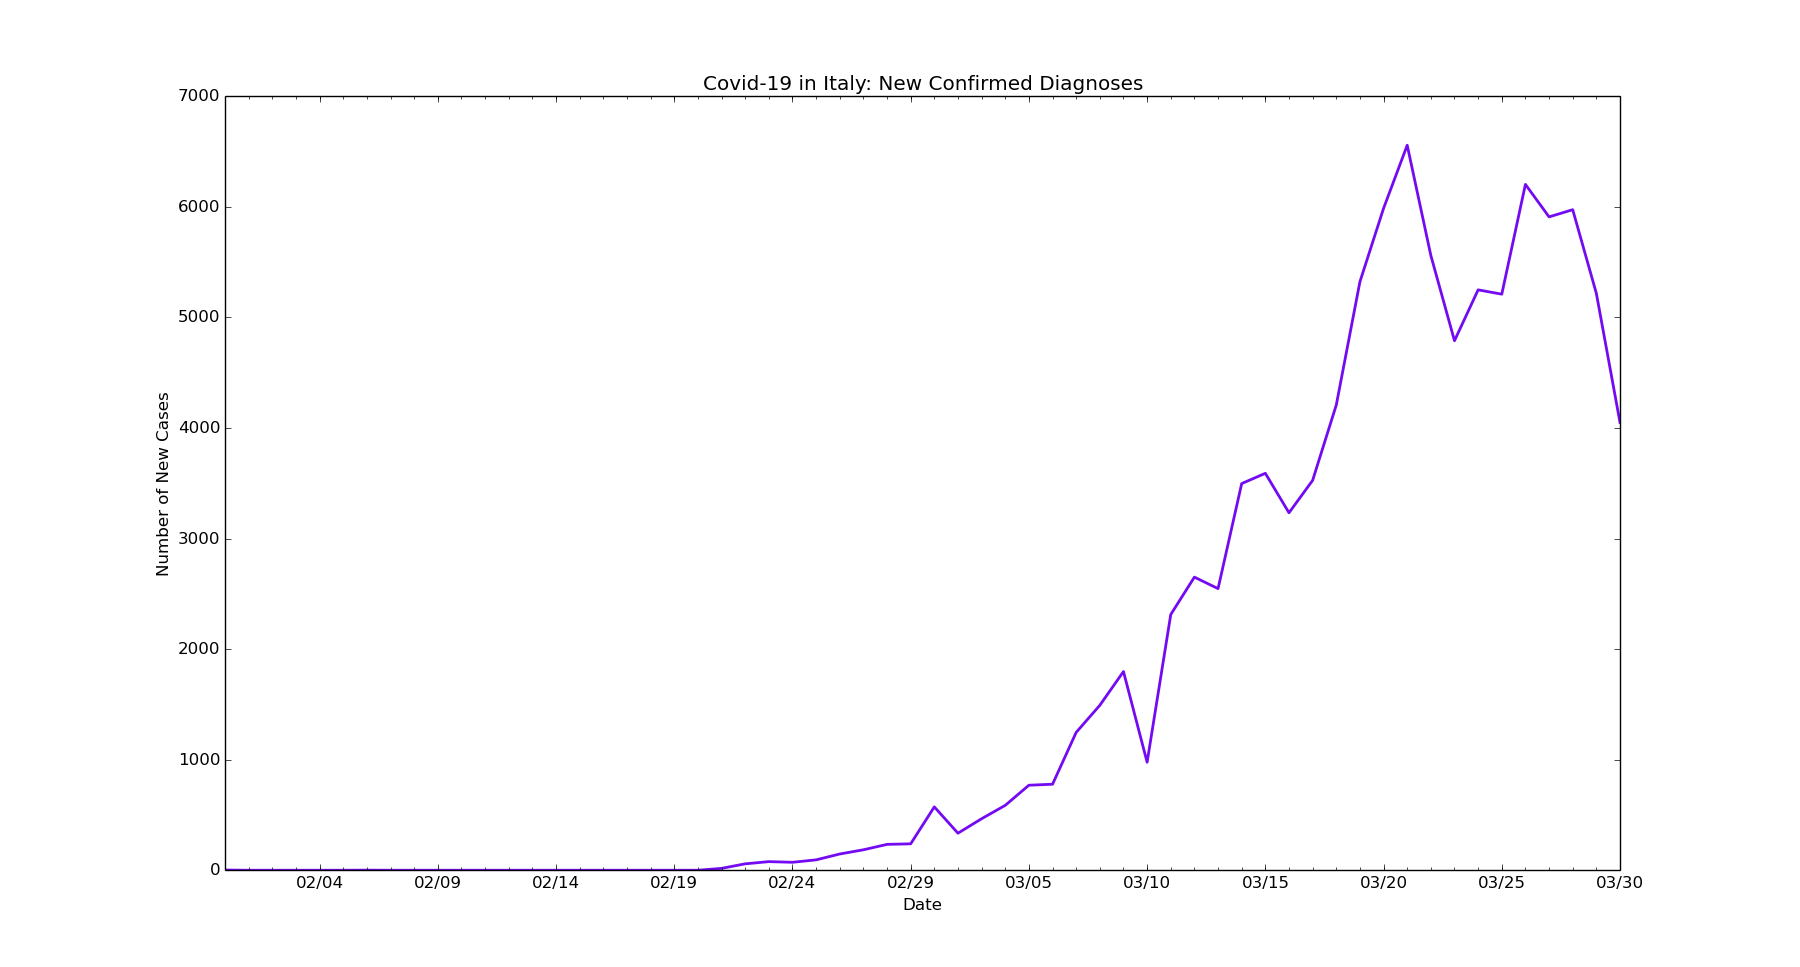
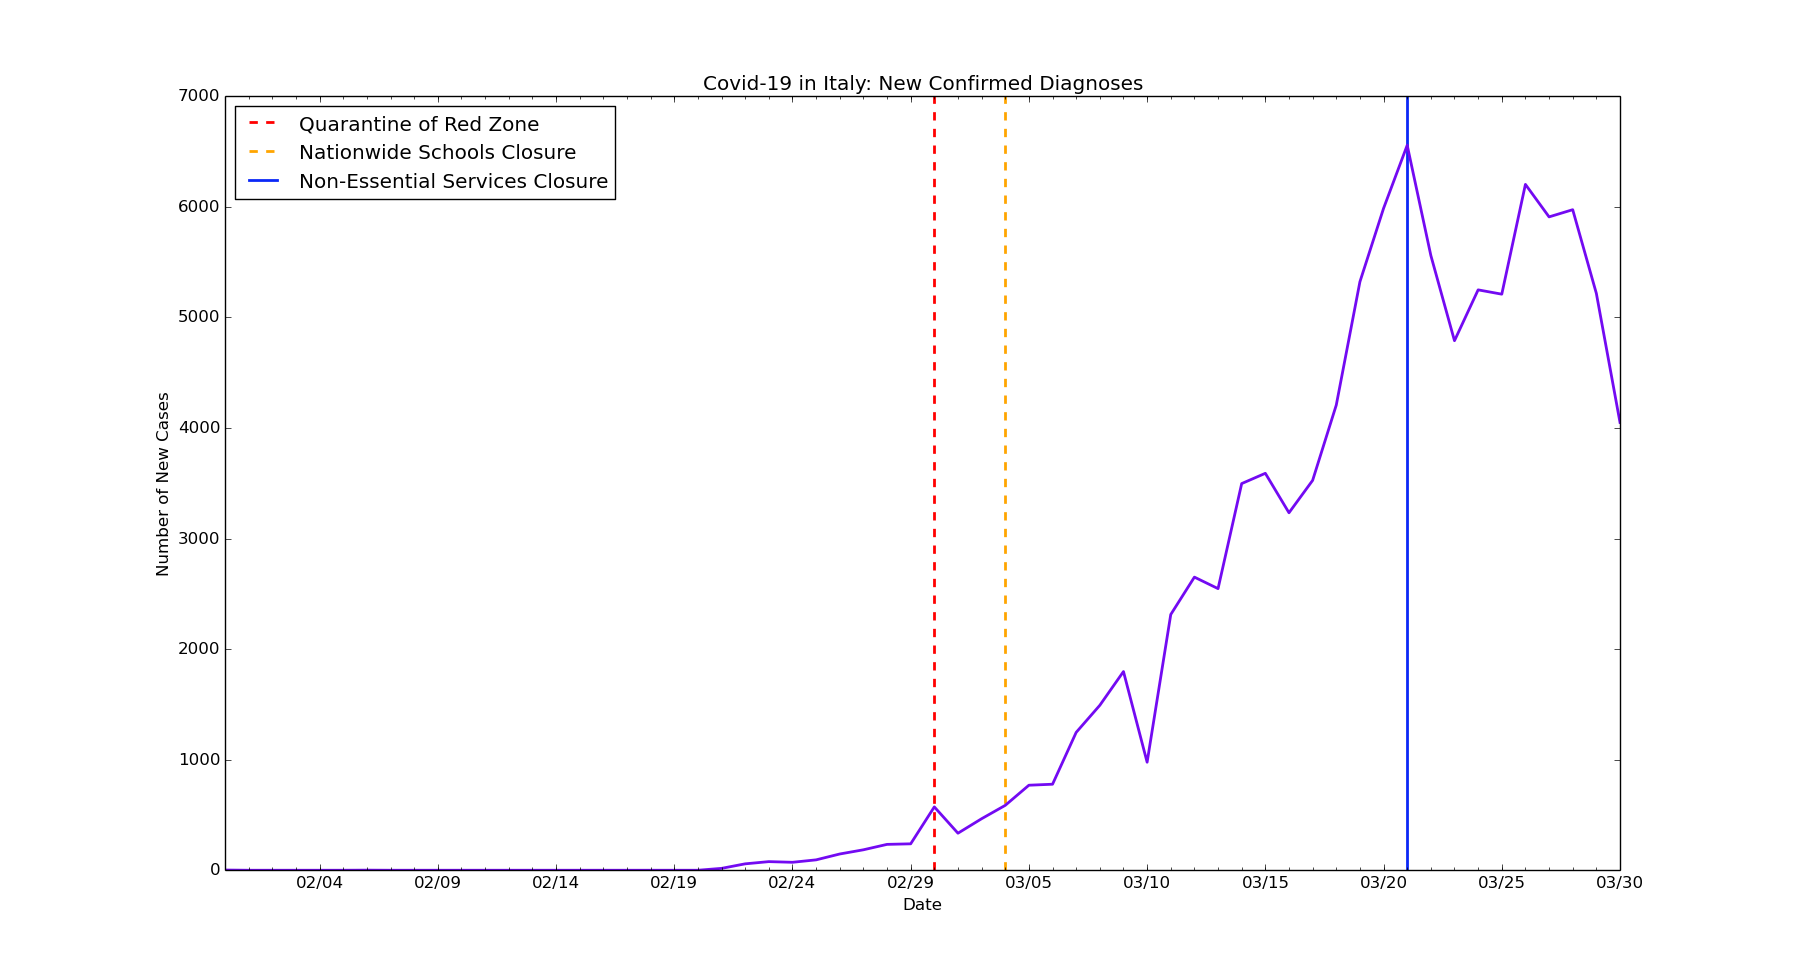
feat: Add containment measures for Italy

Changed region(s): [[0.1244, 0.0931, 0.3422, 0.2172], [0.3111, 0.0931, 0.3422, 0.1241]]

diff --git a/italy/it-nc.py b/italy/it-nc.py
@@ -1,6 +1,6 @@
 # line graph of daily new cases in Italy
 
-import datetime
+import datetime as dt
 import matplotlib.pyplot as plt
 import matplotlib.dates as mdates
 from matplotlib.dates import MO, TU, WE, TH, FR, SA, SU
@@ -8,7 +8,7 @@ from matplotlib.dates import MO, TU, WE, TH, FR, SA, SU
 dates = ['1/31/2020', '2/1/2020', '2/2/2020', '2/3/2020', '2/4/2020', '2/5/2020', '2/6/2020', '2/7/2020', '2/8/2020', '2/9/2020', '2/10/2020', '2/11/2020', '2/12/2020', '2/13/2020', '2/14/2020', '2/15/2020', '2/16/2020', '2/17/2020', '2/18/2020', '2/19/2020', '2/20/2020', '2/21/2020', '2/22/2020', '2/23/2020', '2/24/2020', '2/25/2020', '2/26/2020', '2/27/2020', '2/28/2020', '2/29/2020', '3/1/2020', '3/2/2020', '3/3/2020', '3/4/2020', '3/5/2020', '3/6/2020', '3/7/2020', '3/8/2020', '3/9/2020', '3/10/2020', '3/11/2020', '3/12/2020', '3/13/2020', '3/14/2020', '3/15/2020', '3/16/2020', '3/17/2020', '3/18/2020', '3/19/2020', '3/20/2020', '3/21/2020', '3/22/2020', '3/23/2020', '3/24/2020', '3/25/2020', '3/26/2020', '3/27/2020', '3/28/2020', '3/29/2020', '3/30/2020']
 
 # format dates
-x_values = [datetime.datetime.strptime(d, "%m/%d/%Y").date() for d in dates]
+x_values = [dt.datetime.strptime(d, "%m/%d/%Y").date() for d in dates]
 ax = plt.gca()
 formatter = mdates.DateFormatter("%m/%d")
 ax.xaxis.set_major_formatter(formatter)
@@ -19,6 +19,13 @@ ax.xaxis.set_major_locator(mdates.WeekdayLocator(byweekday=(MO, TU, WE, TH, FR, 
 # minor tick = daily
 ax.xaxis.set_minor_locator(mdates.WeekdayLocator(byweekday=(MO, TU, WE, TH, FR, SA, SU)))
 
+# quarantine of red zone
+plt.axvline(dt.datetime(2020, 3, 1), linestyle='--', color='red', linewidth=2, label='red zone')
+# schools closed
+plt.axvline(dt.datetime(2020, 3, 4), linestyle='--', color='orange', linewidth=2, label='schools')
+# stay-at-home
+plt.axvline(dt.datetime(2020, 3, 21), color='#0b28f7', linewidth=2, label='nonessential')
+
 # new cases by day
 new_cases = [2, 0, 0, 0, 0, 0, 1, 0, 0, 0, 0, 0, 0, 0, 0, 0, 0, 0, 0, 0, 0, 17, 58, 78, 72, 94, 147, 185, 234, 239, 573, 335, 466, 587, 769, 778, 1247, 1492, 1797, 977, 2313, 2651, 2547, 3497, 3590, 3233, 3526, 4207, 5322, 5986, 6557, 5560, 4789, 5249, 5210, 6203, 5909, 5974, 5217, 4050]
 
@@ -26,6 +33,7 @@ new_cases = [2, 0, 0, 0, 0, 0, 1, 0, 0, 0, 0, 0, 0, 0, 0, 0, 0, 0, 0, 0, 0, 17, 
 plt.title('Covid-19 in Italy: New Confirmed Diagnoses')
 plt.xlabel('Date')
 plt.ylabel('Number of New Cases')
+plt.legend(['Quarantine of Red Zone', 'Nationwide Schools Closure', 'Non-Essential Services Closure'], loc='upper left')
 
 # create the graph
 plt.plot(x_values, new_cases, color='#730af2', linewidth=2)
